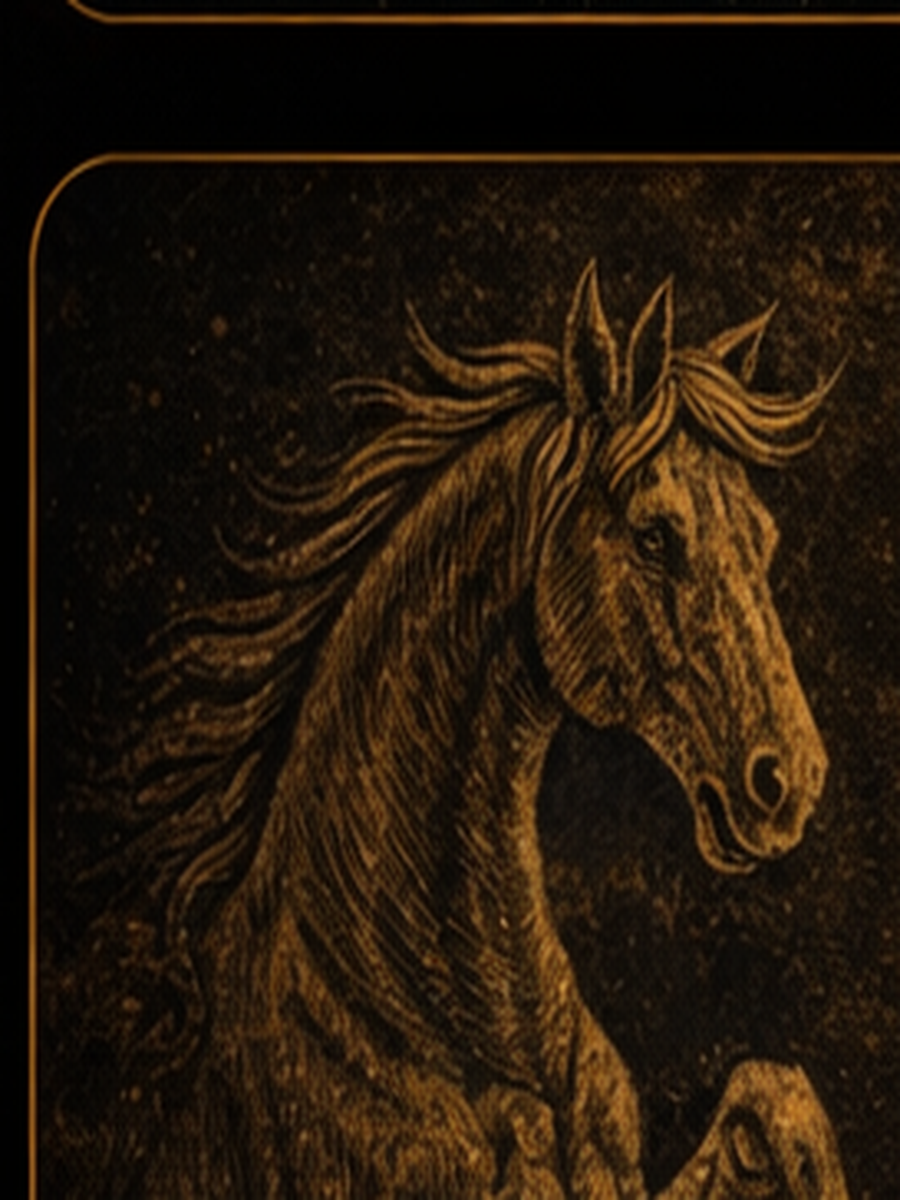
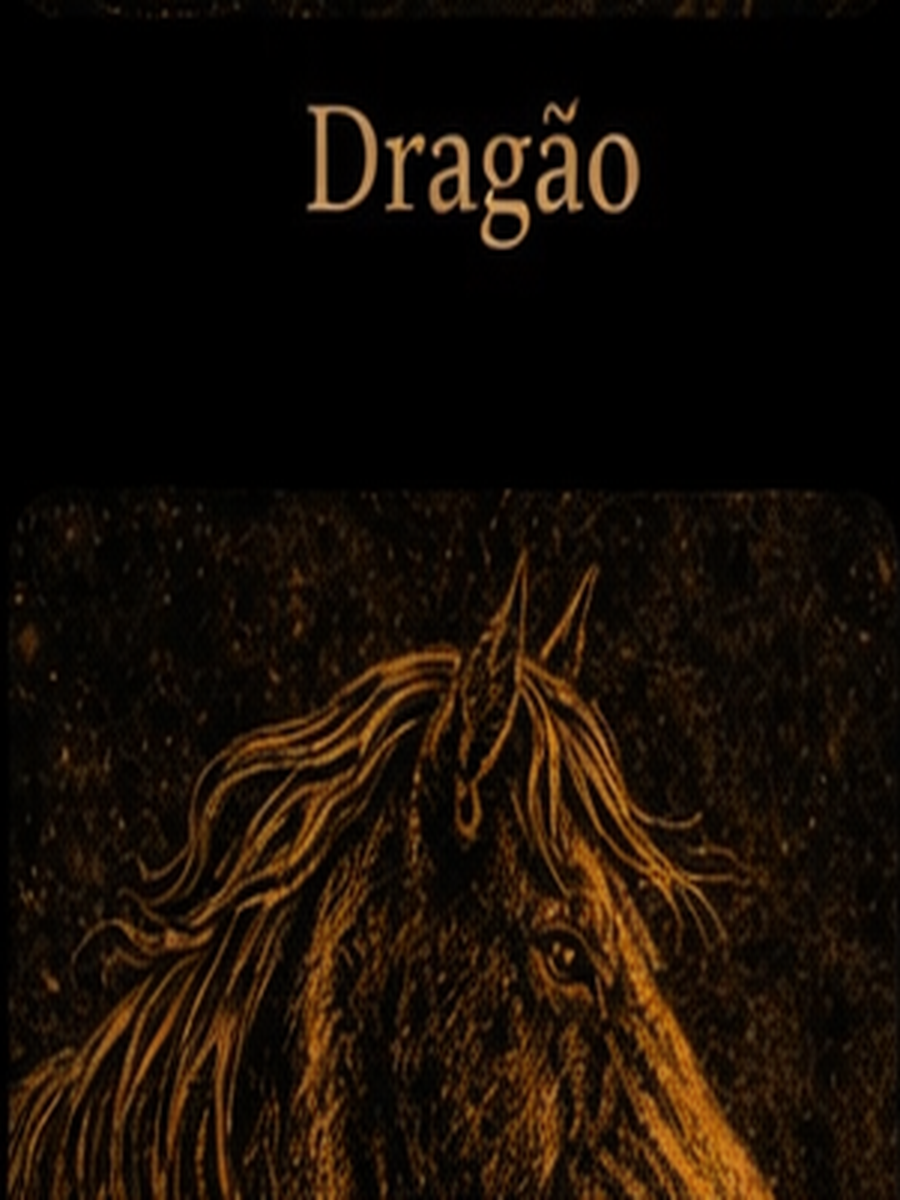
Add files via upload

diff --git a/index.html b/index.html
@@ -1,74 +1,30 @@
-<!doctype html>
-<html lang="pt-BR">
-<head>
-<meta charset="utf-8">
-<meta name="viewport" content="width=device-width,initial-scale=1">
-<title>Treino Semanal Séries</title>
-<meta name="theme-color" content="#050505">
-<link rel="manifest" href="/treino/manifest.json">
-<link rel="icon" href="/treino/icon-192.png">
-<style>
+<!doctype html><html lang="pt-BR"><head><meta charset="utf-8"><meta name="viewport" content="width=device-width,initial-scale=1"><title>Treino Semanal Séries</title><meta name="theme-color" content="#050505"><link rel="manifest" href="/treino/manifest.json"><link rel="icon" href="/treino/icon-192.png"><style>
 :root{--panel:#111;--panel2:#1a1a1a;--text:#f5f5f5;--muted:#b8b8b8;--danger:#d93030;--good:#1db954;--warn:#d4a017;--border:rgba(255,255,255,.10);--shadow:0 14px 28px rgba(0,0,0,.3)}
 *{box-sizing:border-box;-webkit-tap-highlight-color:transparent}
 body{margin:0;font-family:Arial,Helvetica,sans-serif;color:var(--text);background:linear-gradient(180deg,#000 0%,#111 100%)}
-.wrap{max-width:980px;margin:0 auto;padding:16px 14px 90px}
-.hero{position:sticky;top:0;z-index:20;background:rgba(0,0,0,.94);backdrop-filter:blur(10px);border-bottom:1px solid var(--border);margin:0 -14px 14px;padding:16px 14px}
-.hero h1{margin:0;font-size:30px}
-.hero p{margin:6px 0 0;color:var(--muted);font-size:14px;line-height:1.45}
-.proverb-card{position:relative;overflow:hidden;border:1px solid rgba(212,175,55,.24);border-radius:24px;box-shadow:var(--shadow);margin-bottom:14px;min-height:330px;background:#0d0d0d}
-.proverb-bg{position:absolute;inset:0;background-position:right center;background-size:contain;background-repeat:no-repeat;filter:brightness(.98)}
-.proverb-overlay{position:absolute;inset:0;background:linear-gradient(90deg, rgba(0,0,0,.94) 0%, rgba(0,0,0,.88) 38%, rgba(0,0,0,.62) 64%, rgba(0,0,0,.30) 100%),linear-gradient(180deg, rgba(0,0,0,.10), rgba(0,0,0,.20));z-index:1}
-.proverb-content{position:relative;z-index:2;padding:18px;max-width:58%}
-.proverb-top{display:flex;justify-content:space-between;align-items:center;gap:12px}
-.proverb-label{font-size:12px;font-weight:800;letter-spacing:.16em;text-transform:uppercase;color:#f4df95}
-.badge{font-size:11px;font-weight:700;border:1px solid rgba(255,255,255,.14);padding:6px 10px;border-radius:999px;color:#f3f3f3;background:rgba(255,255,255,.05)}
-.quote-mark{font-family:Georgia,"Times New Roman",serif;font-size:64px;line-height:.7;color:#d6ad4d;opacity:.95;margin-top:18px}
-.proverb-text{font-family:Georgia,"Times New Roman",serif;font-size:clamp(28px,5vw,42px);line-height:1.08;font-weight:700;color:#fff6dc}
-.proverb-footer{margin-top:18px;font-size:14px;color:#e6d39c}
-.block,.timer,.mini,.day,.history,.stats{background:var(--panel);border:1px solid var(--border);border-radius:20px;box-shadow:var(--shadow)}
-.block,.timer,.history,.stats{padding:14px;margin-bottom:14px}
-.block strong,.stats strong,.history strong{display:block;color:#fff;margin-bottom:6px}
-.row,.controls,.toolbar{display:flex;gap:10px;flex-wrap:wrap;margin-top:10px}
+.wrap{max-width:980px;margin:0 auto;padding:16px 14px 90px}.hero{position:sticky;top:0;z-index:20;background:rgba(0,0,0,.94);backdrop-filter:blur(10px);border-bottom:1px solid var(--border);margin:0 -14px 14px;padding:16px 14px}
+.hero h1{margin:0;font-size:30px}.hero p{margin:6px 0 0;color:var(--muted);font-size:14px;line-height:1.45}
+.proverb-card{position:relative;overflow:hidden;border:1px solid rgba(212,175,55,.24);border-radius:24px;box-shadow:var(--shadow);margin-bottom:14px;min-height:340px;background:#050505}
+.proverb-bg{position:absolute;inset:0;background-position:92% center;background-size:46%;background-repeat:no-repeat;filter:brightness(.96) saturate(.95);opacity:.95}
+.proverb-overlay{position:absolute;inset:0;background:linear-gradient(90deg, rgba(0,0,0,.95) 0%, rgba(0,0,0,.92) 34%, rgba(0,0,0,.80) 52%, rgba(0,0,0,.44) 74%, rgba(0,0,0,.18) 100%);z-index:1}
+.proverb-content{position:relative;z-index:2;padding:18px;max-width:62%}.proverb-top{display:flex;justify-content:space-between;align-items:center;gap:12px}
+.proverb-label{font-size:12px;font-weight:800;letter-spacing:.16em;text-transform:uppercase;color:#f4df95}.badge{font-size:11px;font-weight:700;border:1px solid rgba(255,255,255,.14);padding:6px 10px;border-radius:999px;color:#f3f3f3;background:rgba(255,255,255,.05)}
+.quote-mark{font-family:Georgia,"Times New Roman",serif;font-size:64px;line-height:.7;color:#d6ad4d;opacity:.95;margin-top:18px}.proverb-text{font-family:Georgia,"Times New Roman",serif;font-size:clamp(28px,5vw,42px);line-height:1.08;font-weight:700;color:#fff6dc}.proverb-footer{margin-top:18px;font-size:14px;color:#e6d39c}
+.block,.timer,.mini,.day,.history,.stats{background:var(--panel);border:1px solid var(--border);border-radius:20px;box-shadow:var(--shadow)}.block,.timer,.history,.stats{padding:14px;margin-bottom:14px}
+.block strong,.stats strong,.history strong{display:block;color:#fff;margin-bottom:6px}.row,.controls,.toolbar{display:flex;gap:10px;flex-wrap:wrap;margin-top:10px}
 button{border:0;border-radius:16px;padding:12px 14px;font-weight:700;font-size:16px;color:white;background:var(--panel2);min-height:48px}
-button.primary{background:#fff;color:#000}
-button.good{background:#1db954;color:#041c0e}
-button.danger{background:#d93030}
-button.warn{background:#d4a017;color:#2e2100}
-button.ghost{background:transparent;border:1px solid var(--border)}
-.grid{display:grid;grid-template-columns:repeat(auto-fit,minmax(150px,1fr));gap:10px;margin-bottom:14px}
-.mini{padding:14px}
-.mini .label{color:var(--muted);font-size:12px}
-.mini .value{font-size:20px;font-weight:800;margin-top:6px}
-.timer .time{font-size:44px;font-weight:900;letter-spacing:1px}
-.timer .note{color:var(--muted);font-size:13px;margin-top:4px}
-.timer-top{display:flex;justify-content:space-between;align-items:flex-start;gap:10px;flex-wrap:wrap}
-.toolbar button{flex:1 1 140px}
-.day{overflow:hidden;margin-bottom:14px}
-.head{padding:16px;border-bottom:1px solid var(--border)}
-.title{margin:0 0 6px;font-size:24px;color:#fff}
-.sub{margin:0;color:var(--muted);font-size:14px}
-.progress{height:10px;background:rgba(255,255,255,.08);border-radius:999px;overflow:hidden;margin-top:12px}
-.progress>div{height:100%;width:0;background:linear-gradient(90deg,#888,#fff);transition:width .25s ease}
-.small{color:var(--muted);font-size:12px;margin-top:8px}
-.list{padding:12px}
-.exercise{display:grid;grid-template-columns:1fr auto;gap:12px;align-items:start;background:rgba(255,255,255,.02);border:1px solid var(--border);border-radius:16px;padding:12px;margin-bottom:10px;transition:all .18s ease}
-.exercise.done{background:rgba(29,185,84,.10);border-color:rgba(29,185,84,.35)}
-.name{font-weight:800;font-size:16px}
-.meta{color:var(--muted);font-size:13px;margin-top:4px}
-.exercise.done .name,.exercise.done .meta{text-decoration:line-through;opacity:.72}
-.resttag{font-size:12px;font-weight:800;color:#fff;background:rgba(255,255,255,.08);border:1px solid rgba(255,255,255,.12);padding:8px 10px;border-radius:999px}
-.series-row{display:flex;gap:8px;flex-wrap:wrap;margin-top:10px}
-.series-box{width:34px;height:34px;border-radius:10px;border:2px solid rgba(255,255,255,.4);display:flex;align-items:center;justify-content:center;background:#fff;color:#000;font-weight:900;font-size:15px;cursor:pointer;user-select:none}
-.series-box.done{background:#1db954;border-color:#1db954;color:#041c0e}
-.series-label{font-size:12px;color:var(--muted);margin-top:6px}
-.history-item{background:rgba(255,255,255,.03);border:1px solid var(--border);border-radius:14px;padding:12px;margin-top:10px}
-.stats-grid{display:grid;grid-template-columns:1fr 1fr;gap:10px}
-.footer{color:var(--muted);text-align:center;font-size:12px;margin-top:12px}
-@media (max-width:480px){.proverb-card{min-height:360px}.proverb-content{max-width:68%}.proverb-text{font-size:26px}.title{font-size:20px}.timer .time{font-size:38px}}
-</style>
-</head>
-<body>
-<div class="wrap">
+button.primary{background:#fff;color:#000}button.good{background:#1db954;color:#041c0e}button.danger{background:#d93030}button.warn{background:#d4a017;color:#2e2100}button.ghost{background:transparent;border:1px solid var(--border)}
+.grid{display:grid;grid-template-columns:repeat(auto-fit,minmax(150px,1fr));gap:10px;margin-bottom:14px}.mini{padding:14px}.mini .label{color:var(--muted);font-size:12px}.mini .value{font-size:20px;font-weight:800;margin-top:6px}
+.timer .time{font-size:44px;font-weight:900;letter-spacing:1px}.timer .note{color:var(--muted);font-size:13px;margin-top:4px}.timer-top{display:flex;justify-content:space-between;align-items:flex-start;gap:10px;flex-wrap:wrap}.toolbar button{flex:1 1 140px}
+.day{overflow:hidden;margin-bottom:14px}.head{padding:16px;border-bottom:1px solid var(--border)}.title{margin:0 0 6px;font-size:24px;color:#fff}.sub{margin:0;color:var(--muted);font-size:14px}
+.progress{height:10px;background:rgba(255,255,255,.08);border-radius:999px;overflow:hidden;margin-top:12px}.progress>div{height:100%;width:0;background:linear-gradient(90deg,#888,#fff);transition:width .25s ease}.small{color:var(--muted);font-size:12px;margin-top:8px}.list{padding:12px}
+.exercise{display:grid;grid-template-columns:1fr auto;gap:12px;align-items:start;background:rgba(255,255,255,.02);border:1px solid var(--border);border-radius:16px;padding:12px;margin-bottom:10px;transition:all .18s ease}.exercise.done{background:rgba(29,185,84,.10);border-color:rgba(29,185,84,.35)}
+.name{font-weight:800;font-size:16px}.meta{color:var(--muted);font-size:13px;margin-top:4px}.exercise.done .name,.exercise.done .meta{text-decoration:line-through;opacity:.72}
+.resttag{font-size:12px;font-weight:800;color:#fff;background:rgba(255,255,255,.08);border:1px solid rgba(255,255,255,.12);padding:8px 10px;border-radius:999px}.series-row{display:flex;gap:8px;flex-wrap:wrap;margin-top:10px}
+.series-box{width:34px;height:34px;border-radius:10px;border:2px solid rgba(255,255,255,.4);display:flex;align-items:center;justify-content:center;background:#fff;color:#000;font-weight:900;font-size:15px;cursor:pointer;user-select:none}.series-box.done{background:#1db954;border-color:#1db954;color:#041c0e}
+.series-label{font-size:12px;color:var(--muted);margin-top:6px}.history-item{background:rgba(255,255,255,.03);border:1px solid var(--border);border-radius:14px;padding:12px;margin-top:10px}.stats-grid{display:grid;grid-template-columns:1fr 1fr;gap:10px}.footer{color:var(--muted);text-align:center;font-size:12px;margin-top:12px}
+@media (max-width:480px){.proverb-card{min-height:360px}.proverb-content{max-width:66%}.proverb-bg{background-size:50%;background-position:96% center}.proverb-text{font-size:26px}.title{font-size:20px}.timer .time{font-size:38px}}
+</style></head><body><div class="wrap">
 <div class="hero"><h1>Treino Semanal Séries</h1><p>Agora com provérbio do dia em destaque e 12 artes individuais dos animais do horóscopo chinês distribuídas pelas 60 frases.</p></div>
 <div class="proverb-card"><div class="proverb-bg" id="proverbBg"></div><div class="proverb-overlay"></div><div class="proverb-content"><div class="proverb-top"><div class="proverb-label">Provérbio do dia</div><div class="badge">Sabedoria oriental</div></div><div class="quote-mark">“</div><div class="proverb-text" id="messageText"></div><div class="proverb-footer" id="animalName"></div></div></div>
 <div class="block"><strong>Instalar como app</strong><div id="installText">Abra no Chrome e aguarde alguns segundos. Se o botão aparecer, toque nele.</div><div class="row"><button id="installBtn" class="good" style="display:none">Instalar app</button><button id="exportBtn" class="ghost">Exportar progresso</button></div></div>
@@ -77,29 +33,15 @@ button.ghost{background:transparent;border:1px solid var(--border)}
 <div class="stats"><strong>Resumo da semana</strong><div class="stats-grid"><div class="mini"><div class="label">Treinos concluídos</div><div class="value" id="doneDays">0/5</div></div><div class="mini"><div class="label">Sequência</div><div class="value" id="streak">0</div></div></div></div>
 <div class="timer"><div class="timer-top"><div><div class="time" id="timer">01:00</div><div class="note">Cronômetro com descanso automático entre séries.</div></div><div class="badge" id="autoMode">Auto descanso: desligado</div></div><div class="controls"><button onclick="setTimer(45)">45s</button><button onclick="setTimer(60)">60s</button><button onclick="setTimer(90)">90s</button><button class="primary" onclick="startTimer()">Iniciar</button><button onclick="pauseTimer()">Pausar</button><button class="danger" onclick="resetTimer()">Zerar</button><button class="ghost" onclick="toggleAutoRest()">Auto</button></div></div>
 <div class="toolbar"><button class="good" onclick="goToday()">Ir para treino de hoje</button><button onclick="saveState(true)">Salvar progresso</button><button class="ghost" onclick="markDayDone()">Concluir treino do dia</button><button class="danger" onclick="clearChecks()">Limpar marcações</button></div>
-<div id="daysContainer"></div>
-<div class="history"><strong>Histórico</strong><div id="historyList">Nenhum treino finalizado ainda.</div></div>
-<div class="footer">App de treino com séries • provérbios do dia • salvo localmente no seu celular.</div>
-</div>
+<div id="daysContainer"></div><div class="history"><strong>Histórico</strong><div id="historyList">Nenhum treino finalizado ainda.</div></div><div class="footer">App de treino com séries • provérbios do dia • salvo localmente no seu celular.</div></div>
 <script>
-const DAYS={"terca": {"title": "Terça — Peito + Tríceps", "sub": "19h • descanso 60–90s", "exs": [["Supino inclinado máquina", 4, "10 repetições", "90s"], ["Supino inclinado halter", 4, "10 repetições", "90s"], ["Crucifixo máquina", 4, "12 repetições", "60s"], ["Tríceps corda pulley", 4, "12 repetições", "60s"], ["Tríceps francês corda", 4, "12 repetições", "60s"], ["Coice corda isolado", 4, "12 repetições", "60s"]]}, "quarta": {"title": "Quarta — Costas + Bíceps", "sub": "19h • descanso 60–90s", "exs": [["Puxada frontal aberta", 4, "10 repetições", "90s"], ["Remada baixa triângulo", 4, "10 repetições", "90s"], ["Puxada em pé corda", 3, "12 repetições", "60s"], ["Crucifixo inverso", 3, "12 repetições", "60s"], ["Scott", 4, "10 repetições", "60s"], ["Rosca unilateral halter", 3, "10 repetições", "60s"], ["Polia baixa corda", 3, "12 repetições", "60s"]]}, "quinta": {"title": "Quinta — Perna + Ombro + Trapézio", "sub": "19h • perna primeiro • descanso 60–90s", "exs": [["Leg press", 4, "12 repetições", "90s"], ["Extensora", 3, "15 repetições", "60s"], ["Flexora", 3, "15 repetições", "60s"], ["Adutor", 3, "15 repetições", "60s"], ["Abdutor", 3, "15 repetições", "60s"], ["Panturrilha", 4, "15–20 repetições", "60s"], ["Desenvolvimento máquina", 4, "10 repetições", "90s"], ["Remada alta máquina", 3, "12 repetições", "60s"], ["Encolhimento trapézio", 4, "12–15 repetições", "60s"]]}, "sabado": {"title": "Sábado — Peito + Tríceps", "sub": "10h • variação leve • descanso 60–90s", "exs": [["Supino máquina reto", 4, "10 repetições", "90s"], ["Supino inclinado halter", 4, "10 repetições", "90s"], ["Crucifixo máquina", 4, "12 repetições", "60s"], ["Tríceps corda", 4, "12 repetições", "60s"], ["Francês corda", 4, "12 repetições", "60s"]]}, "domingo": {"title": "Domingo — Costas + Bíceps", "sub": "10h • descanso 60–90s", "exs": [["Puxada frontal aberta", 4, "10 repetições", "90s"], ["Remada baixa triângulo", 4, "10 repetições", "90s"], ["Crucifixo inverso", 3, "12 repetições", "60s"], ["Scott", 4, "10 repetições", "60s"], ["Rosca halter", 3, "10 repetições", "60s"]]}};
-const MESSAGE_CARDS=[{"text": "A jornada mais longa começa com o primeiro passo.", "animal": {"name": "Boi", "file": "animal_boi.png"}}, {"text": "Não tenha medo de andar devagar; tenha medo de ficar parado.", "animal": {"name": "Galo", "file": "animal_galo.png"}}, {"text": "Quem move uma montanha começa carregando pequenas pedras.", "animal": {"name": "Dragão", "file": "animal_dragao.png"}}, {"text": "A melhor hora para plantar uma árvore foi há vinte anos; a segunda melhor hora é agora.", "animal": {"name": "Rato", "file": "animal_rato.png"}}, {"text": "Água constante encontra caminho mesmo entre pedras.", "animal": {"name": "Serpente", "file": "animal_serpente.png"}}, {"text": "Quem aprende a esperar amadurece em silêncio.", "animal": {"name": "Tigre", "file": "animal_tigre.png"}}, {"text": "Uma palavra branda pode abrir portas fechadas.", "animal": {"name": "Macaco", "file": "animal_macaco.png"}}, {"text": "A paciência é amarga, mas seus frutos são doces.", "animal": {"name": "Porco", "file": "animal_porco.png"}}, {"text": "Quando o vento muda, alguns levantam muros; outros constroem moinhos.", "animal": {"name": "Cavalo", "file": "animal_cavalo.png"}}, {"text": "Um rio profundo corre sem alarde.", "animal": {"name": "Coelho", "file": "animal_coelho.png"}}, {"text": "Quem faz com constância vai além de quem começa com pressa.", "animal": {"name": "Cão", "file": "animal_cao.png"}}, {"text": "O bambu que se dobra é mais forte do que o carvalho que resiste a tudo.", "animal": {"name": "Cabra", "file": "animal_cabra.png"}}, {"text": "Antes de corrigir o mundo, arrume o próprio passo.", "animal": {"name": "Galo", "file": "animal_galo.png"}}, {"text": "O sábio observa mais do que fala.", "animal": {"name": "Cavalo", "file": "animal_cavalo.png"}}, {"text": "Até a água turva se acalma quando deixada em repouso.", "animal": {"name": "Tigre", "file": "animal_tigre.png"}}, {"text": "Grandes resultados nascem de pequenos gestos repetidos.", "animal": {"name": "Porco", "file": "animal_porco.png"}}, {"text": "Quem domina a si mesmo já venceu metade da batalha.", "animal": {"name": "Rato", "file": "animal_rato.png"}}, {"text": "O tempo esclarece o que a pressa confunde.", "animal": {"name": "Serpente", "file": "animal_serpente.png"}}, {"text": "Nem todo silêncio é vazio; às vezes, é compreensão.", "animal": {"name": "Boi", "file": "animal_boi.png"}}, {"text": "O caminho fica mais leve para quem aprende a levar só o necessário.", "animal": {"name": "Coelho", "file": "animal_coelho.png"}}, {"text": "Uma faísca cuidada pode acender grande chama.", "animal": {"name": "Macaco", "file": "animal_macaco.png"}}, {"text": "Quem pergunta por um minuto aprende; quem não pergunta permanece perdido.", "animal": {"name": "Dragão", "file": "animal_dragao.png"}}, {"text": "Mesmo a noite mais longa cede lugar ao amanhecer.", "animal": {"name": "Cabra", "file": "animal_cabra.png"}}, {"text": "O fruto amadurece no seu tempo, não no da ansiedade.", "animal": {"name": "Cão", "file": "animal_cao.png"}}, {"text": "A firmeza tranquila vale mais que a força impaciente.", "animal": {"name": "Dragão", "file": "animal_dragao.png"}}, {"text": "Quem cuida da raiz não teme a estação.", "animal": {"name": "Rato", "file": "animal_rato.png"}}, {"text": "Uma casa em paz vale mais do que um palácio inquieto.", "animal": {"name": "Cavalo", "file": "animal_cavalo.png"}}, {"text": "Não é a altura da montanha que vence o homem, mas a persistência do passo.", "animal": {"name": "Cão", "file": "animal_cao.png"}}, {"text": "Quem cultiva serenidade enxerga mais longe.", "animal": {"name": "Serpente", "file": "animal_serpente.png"}}, {"text": "O lago reflete o céu quando suas águas estão calmas.", "animal": {"name": "Porco", "file": "animal_porco.png"}}, {"text": "Quando a mente se aquieta, a direção aparece.", "animal": {"name": "Boi", "file": "animal_boi.png"}}, {"text": "O hábito de recomeçar é um tipo de sabedoria.", "animal": {"name": "Coelho", "file": "animal_coelho.png"}}, {"text": "A pressa tropeça onde a atenção pisaria firme.", "animal": {"name": "Macaco", "file": "animal_macaco.png"}}, {"text": "Quem guarda rancor carrega peso desnecessário.", "animal": {"name": "Galo", "file": "animal_galo.png"}}, {"text": "Até o menor avanço é maior que a imobilidade.", "animal": {"name": "Cabra", "file": "animal_cabra.png"}}, {"text": "O homem prudente mede o passo antes de correr.", "animal": {"name": "Tigre", "file": "animal_tigre.png"}}, {"text": "Uma árvore forte cresce devagar.", "animal": {"name": "Galo", "file": "animal_galo.png"}}, {"text": "Quem espalha bondade nunca volta de mãos vazias.", "animal": {"name": "Dragão", "file": "animal_dragao.png"}}, {"text": "O erro reconhecido já começou a se transformar em acerto.", "animal": {"name": "Boi", "file": "animal_boi.png"}}, {"text": "Quem escuta com atenção aprende duas vezes.", "animal": {"name": "Cavalo", "file": "animal_cavalo.png"}}, {"text": "A estrada ensina mais a quem caminha do que a quem apenas observa.", "animal": {"name": "Porco", "file": "animal_porco.png"}}, {"text": "Uma tigela cheia demais já não recebe mais nada.", "animal": {"name": "Cabra", "file": "animal_cabra.png"}}, {"text": "O dia de hoje vale mais do que a promessa de amanhã.", "animal": {"name": "Coelho", "file": "animal_coelho.png"}}, {"text": "Quem mantém o coração em ordem organiza melhor o caminho.", "animal": {"name": "Tigre", "file": "animal_tigre.png"}}, {"text": "A calma é uma forma silenciosa de poder.", "animal": {"name": "Cão", "file": "animal_cao.png"}}, {"text": "Não se apressa a primavera puxando as flores.", "animal": {"name": "Macaco", "file": "animal_macaco.png"}}, {"text": "Quem aceita aprender nunca envelhece por dentro.", "animal": {"name": "Serpente", "file": "animal_serpente.png"}}, {"text": "Uma lanterna pequena ainda é suficiente para atravessar a noite.", "animal": {"name": "Rato", "file": "animal_rato.png"}}, {"text": "Para endireitar o galho, cuide primeiro da raiz.", "animal": {"name": "Dragão", "file": "animal_dragao.png"}}, {"text": "Quem semeia constância colhe confiança.", "animal": {"name": "Cavalo", "file": "animal_cavalo.png"}}, {"text": "A verdade não precisa correr; ela chega.", "animal": {"name": "Cabra", "file": "animal_cabra.png"}}, {"text": "A pedra é vencida menos pela força do golpe e mais pela repetição.", "animal": {"name": "Macaco", "file": "animal_macaco.png"}}, {"text": "Nem toda demora é perda; às vezes, é preparo.", "animal": {"name": "Serpente", "file": "animal_serpente.png"}}, {"text": "Quem faz o simples com atenção constrói o extraordinário.", "animal": {"name": "Tigre", "file": "animal_tigre.png"}}, {"text": "A mente apressada vê pouco; o olhar sereno enxerga fundo.", "animal": {"name": "Porco", "file": "animal_porco.png"}}, {"text": "Se o coração estiver em paz, o caminho parecerá menos áspero.", "animal": {"name": "Coelho", "file": "animal_coelho.png"}}, {"text": "O excesso de ruído afasta a clareza.", "animal": {"name": "Boi", "file": "animal_boi.png"}}, {"text": "Uma ponte se sustenta porque cada parte cumpre o seu papel.", "animal": {"name": "Cão", "file": "animal_cao.png"}}, {"text": "Quem honra o presente prepara melhor o futuro.", "animal": {"name": "Rato", "file": "animal_rato.png"}}, {"text": "O homem que cuida do que pensa melhora o que vive.", "animal": {"name": "Galo", "file": "animal_galo.png"}}];
-const REPO='/treino/';
-const daysContainer=document.getElementById('daysContainer');
+const DAYS={"terca": {"title": "Terça — Peito + Tríceps", "sub": "19h • descanso 60–90s", "exs": [["Supino inclinado máquina", 4, "10 repetições", "90s"], ["Supino inclinado halter", 4, "10 repetições", "90s"], ["Crucifixo máquina", 4, "12 repetições", "60s"], ["Tríceps corda pulley", 4, "12 repetições", "60s"], ["Tríceps francês corda", 4, "12 repetições", "60s"], ["Coice corda isolado", 4, "12 repetições", "60s"]]}, "quarta": {"title": "Quarta — Costas + Bíceps", "sub": "19h • descanso 60–90s", "exs": [["Puxada frontal aberta", 4, "10 repetições", "90s"], ["Remada baixa triângulo", 4, "10 repetições", "90s"], ["Puxada em pé corda", 3, "12 repetições", "60s"], ["Crucifixo inverso", 3, "12 repetições", "60s"], ["Scott", 4, "10 repetições", "60s"], ["Rosca unilateral halter", 3, "10 repetições", "60s"], ["Polia baixa corda", 3, "12 repetições", "60s"]]}, "quinta": {"title": "Quinta — Perna + Ombro + Trapézio", "sub": "19h • perna primeiro • descanso 60–90s", "exs": [["Leg press", 4, "12 repetições", "90s"], ["Extensora", 3, "15 repetições", "60s"], ["Flexora", 3, "15 repetições", "60s"], ["Adutor", 3, "15 repetições", "60s"], ["Abdutor", 3, "15 repetições", "60s"], ["Panturrilha", 4, "15–20 repetições", "60s"], ["Desenvolvimento máquina", 4, "10 repetições", "90s"], ["Remada alta máquina", 3, "12 repetições", "60s"], ["Encolhimento trapézio", 4, "12–15 repetições", "60s"]]}, "sabado": {"title": "Sábado — Peito + Tríceps", "sub": "10h • variação leve • descanso 60–90s", "exs": [["Supino máquina reto", 4, "10 repetições", "90s"], ["Supino inclinado halter", 4, "10 repetições", "90s"], ["Crucifixo máquina", 4, "12 repetições", "60s"], ["Tríceps corda", 4, "12 repetições", "60s"], ["Francês corda", 4, "12 repetições", "60s"]]}, "domingo": {"title": "Domingo — Costas + Bíceps", "sub": "10h • descanso 60–90s", "exs": [["Puxada frontal aberta", 4, "10 repetições", "90s"], ["Remada baixa triângulo", 4, "10 repetições", "90s"], ["Crucifixo inverso", 3, "12 repetições", "60s"], ["Scott", 4, "10 repetições", "60s"], ["Rosca halter", 3, "10 repetições", "60s"]]}}; const MESSAGE_CARDS=[{"text": "A jornada mais longa começa com o primeiro passo.", "animal": {"name": "Boi", "file": "animal_boi.png"}}, {"text": "Não tenha medo de andar devagar; tenha medo de ficar parado.", "animal": {"name": "Galo", "file": "animal_galo.png"}}, {"text": "Quem move uma montanha começa carregando pequenas pedras.", "animal": {"name": "Dragão", "file": "animal_dragao.png"}}, {"text": "A melhor hora para plantar uma árvore foi há vinte anos; a segunda melhor hora é agora.", "animal": {"name": "Rato", "file": "animal_rato.png"}}, {"text": "Água constante encontra caminho mesmo entre pedras.", "animal": {"name": "Serpente", "file": "animal_serpente.png"}}, {"text": "Quem aprende a esperar amadurece em silêncio.", "animal": {"name": "Tigre", "file": "animal_tigre.png"}}, {"text": "Uma palavra branda pode abrir portas fechadas.", "animal": {"name": "Macaco", "file": "animal_macaco.png"}}, {"text": "A paciência é amarga, mas seus frutos são doces.", "animal": {"name": "Porco", "file": "animal_porco.png"}}, {"text": "Quando o vento muda, alguns levantam muros; outros constroem moinhos.", "animal": {"name": "Cavalo", "file": "animal_cavalo.png"}}, {"text": "Um rio profundo corre sem alarde.", "animal": {"name": "Coelho", "file": "animal_coelho.png"}}, {"text": "Quem faz com constância vai além de quem começa com pressa.", "animal": {"name": "Cão", "file": "animal_cao.png"}}, {"text": "O bambu que se dobra é mais forte do que o carvalho que resiste a tudo.", "animal": {"name": "Cabra", "file": "animal_cabra.png"}}, {"text": "Antes de corrigir o mundo, arrume o próprio passo.", "animal": {"name": "Galo", "file": "animal_galo.png"}}, {"text": "O sábio observa mais do que fala.", "animal": {"name": "Cavalo", "file": "animal_cavalo.png"}}, {"text": "Até a água turva se acalma quando deixada em repouso.", "animal": {"name": "Tigre", "file": "animal_tigre.png"}}, {"text": "Grandes resultados nascem de pequenos gestos repetidos.", "animal": {"name": "Porco", "file": "animal_porco.png"}}, {"text": "Quem domina a si mesmo já venceu metade da batalha.", "animal": {"name": "Rato", "file": "animal_rato.png"}}, {"text": "O tempo esclarece o que a pressa confunde.", "animal": {"name": "Serpente", "file": "animal_serpente.png"}}, {"text": "Nem todo silêncio é vazio; às vezes, é compreensão.", "animal": {"name": "Boi", "file": "animal_boi.png"}}, {"text": "O caminho fica mais leve para quem aprende a levar só o necessário.", "animal": {"name": "Coelho", "file": "animal_coelho.png"}}, {"text": "Uma faísca cuidada pode acender grande chama.", "animal": {"name": "Macaco", "file": "animal_macaco.png"}}, {"text": "Quem pergunta por um minuto aprende; quem não pergunta permanece perdido.", "animal": {"name": "Dragão", "file": "animal_dragao.png"}}, {"text": "Mesmo a noite mais longa cede lugar ao amanhecer.", "animal": {"name": "Cabra", "file": "animal_cabra.png"}}, {"text": "O fruto amadurece no seu tempo, não no da ansiedade.", "animal": {"name": "Cão", "file": "animal_cao.png"}}, {"text": "A firmeza tranquila vale mais que a força impaciente.", "animal": {"name": "Dragão", "file": "animal_dragao.png"}}, {"text": "Quem cuida da raiz não teme a estação.", "animal": {"name": "Rato", "file": "animal_rato.png"}}, {"text": "Uma casa em paz vale mais do que um palácio inquieto.", "animal": {"name": "Cavalo", "file": "animal_cavalo.png"}}, {"text": "Não é a altura da montanha que vence o homem, mas a persistência do passo.", "animal": {"name": "Cão", "file": "animal_cao.png"}}, {"text": "Quem cultiva serenidade enxerga mais longe.", "animal": {"name": "Serpente", "file": "animal_serpente.png"}}, {"text": "O lago reflete o céu quando suas águas estão calmas.", "animal": {"name": "Porco", "file": "animal_porco.png"}}, {"text": "Quando a mente se aquieta, a direção aparece.", "animal": {"name": "Boi", "file": "animal_boi.png"}}, {"text": "O hábito de recomeçar é um tipo de sabedoria.", "animal": {"name": "Coelho", "file": "animal_coelho.png"}}, {"text": "A pressa tropeça onde a atenção pisaria firme.", "animal": {"name": "Macaco", "file": "animal_macaco.png"}}, {"text": "Quem guarda rancor carrega peso desnecessário.", "animal": {"name": "Galo", "file": "animal_galo.png"}}, {"text": "Até o menor avanço é maior que a imobilidade.", "animal": {"name": "Cabra", "file": "animal_cabra.png"}}, {"text": "O homem prudente mede o passo antes de correr.", "animal": {"name": "Tigre", "file": "animal_tigre.png"}}, {"text": "Uma árvore forte cresce devagar.", "animal": {"name": "Galo", "file": "animal_galo.png"}}, {"text": "Quem espalha bondade nunca volta de mãos vazias.", "animal": {"name": "Dragão", "file": "animal_dragao.png"}}, {"text": "O erro reconhecido já começou a se transformar em acerto.", "animal": {"name": "Boi", "file": "animal_boi.png"}}, {"text": "Quem escuta com atenção aprende duas vezes.", "animal": {"name": "Cavalo", "file": "animal_cavalo.png"}}, {"text": "A estrada ensina mais a quem caminha do que a quem apenas observa.", "animal": {"name": "Porco", "file": "animal_porco.png"}}, {"text": "Uma tigela cheia demais já não recebe mais nada.", "animal": {"name": "Cabra", "file": "animal_cabra.png"}}, {"text": "O dia de hoje vale mais do que a promessa de amanhã.", "animal": {"name": "Coelho", "file": "animal_coelho.png"}}, {"text": "Quem mantém o coração em ordem organiza melhor o caminho.", "animal": {"name": "Tigre", "file": "animal_tigre.png"}}, {"text": "A calma é uma forma silenciosa de poder.", "animal": {"name": "Cão", "file": "animal_cao.png"}}, {"text": "Não se apressa a primavera puxando as flores.", "animal": {"name": "Macaco", "file": "animal_macaco.png"}}, {"text": "Quem aceita aprender nunca envelhece por dentro.", "animal": {"name": "Serpente", "file": "animal_serpente.png"}}, {"text": "Uma lanterna pequena ainda é suficiente para atravessar a noite.", "animal": {"name": "Rato", "file": "animal_rato.png"}}, {"text": "Para endireitar o galho, cuide primeiro da raiz.", "animal": {"name": "Dragão", "file": "animal_dragao.png"}}, {"text": "Quem semeia constância colhe confiança.", "animal": {"name": "Cavalo", "file": "animal_cavalo.png"}}, {"text": "A verdade não precisa correr; ela chega.", "animal": {"name": "Cabra", "file": "animal_cabra.png"}}, {"text": "A pedra é vencida menos pela força do golpe e mais pela repetição.", "animal": {"name": "Macaco", "file": "animal_macaco.png"}}, {"text": "Nem toda demora é perda; às vezes, é preparo.", "animal": {"name": "Serpente", "file": "animal_serpente.png"}}, {"text": "Quem faz o simples com atenção constrói o extraordinário.", "animal": {"name": "Tigre", "file": "animal_tigre.png"}}, {"text": "A mente apressada vê pouco; o olhar sereno enxerga fundo.", "animal": {"name": "Porco", "file": "animal_porco.png"}}, {"text": "Se o coração estiver em paz, o caminho parecerá menos áspero.", "animal": {"name": "Coelho", "file": "animal_coelho.png"}}, {"text": "O excesso de ruído afasta a clareza.", "animal": {"name": "Boi", "file": "animal_boi.png"}}, {"text": "Uma ponte se sustenta porque cada parte cumpre o seu papel.", "animal": {"name": "Cão", "file": "animal_cao.png"}}, {"text": "Quem honra o presente prepara melhor o futuro.", "animal": {"name": "Rato", "file": "animal_rato.png"}}, {"text": "O homem que cuida do que pensa melhora o que vive.", "animal": {"name": "Galo", "file": "animal_galo.png"}}]; const REPO='/treino/'; const daysContainer=document.getElementById('daysContainer');
 function dayIndex(){const start=new Date('2026-01-01'); const now=new Date(); return Math.abs(Math.floor((now-start)/(1000*60*60*24)));}
 const todayCard=MESSAGE_CARDS[dayIndex()%MESSAGE_CARDS.length];
 document.getElementById('messageText').textContent=todayCard.text;
 document.getElementById('animalName').textContent='Animal do dia: '+todayCard.animal.name;
 document.getElementById('proverbBg').style.backgroundImage='url("'+REPO+todayCard.animal.file+'")';
-for(const [gid,info] of Object.entries(DAYS)){
-  let html=`<section class="day" id="${gid}"><div class="head"><h2 class="title">${info.title}</h2><p class="sub">${info.sub}</p><div class="progress"><div id="bar-${gid}"></div></div><div class="small" id="txt-${gid}">0 de ${info.exs.length} exercícios concluídos</div></div><div class="list">`;
-  info.exs.forEach((ex,i)=>{
-    const id=`${gid}-${i}`; let s='';
-    for(let n=1;n<=ex[1];n++){s+=`<div class="series-box" data-series-id="${id}-${n}" data-exercise-id="${id}" data-rest="${ex[3]}">${n}</div>`;}
-    html+=`<div class="exercise" data-id="${id}"><div><div class="name">${ex[0]}</div><div class="meta">${ex[1]} séries • ${ex[2]}</div><div class="series-row">${s}</div><div class="series-label">Marque uma caixa a cada série concluída</div></div><div class="resttag">${ex[3]}</div></div>`;
-  });
-  html+=`</div></section>`; daysContainer.insertAdjacentHTML('beforeend',html);
-}
+for(const [gid,info] of Object.entries(DAYS)){let html=`<section class="day" id="${gid}"><div class="head"><h2 class="title">${info.title}</h2><p class="sub">${info.sub}</p><div class="progress"><div id="bar-${gid}"></div></div><div class="small" id="txt-${gid}">0 de ${info.exs.length} exercícios concluídos</div></div><div class="list">`; info.exs.forEach((ex,i)=>{const id=`${gid}-${i}`; let s=''; for(let n=1;n<=ex[1];n++){s+=`<div class="series-box" data-series-id="${id}-${n}" data-exercise-id="${id}" data-rest="${ex[3]}">${n}</div>`;} html+=`<div class="exercise" data-id="${id}"><div><div class="name">${ex[0]}</div><div class="meta">${ex[1]} séries • ${ex[2]}</div><div class="series-row">${s}</div><div class="series-label">Marque uma caixa a cada série concluída</div></div><div class="resttag">${ex[3]}</div></div>`}); html+=`</div></section>`; daysContainer.insertAdjacentHTML('beforeend',html);}
 const installBtn=document.getElementById('installBtn'), installText=document.getElementById('installText'), exportBtn=document.getElementById('exportBtn'), wakeBtn=document.getElementById('wakeBtn'), notifyBtn=document.getElementById('notifyBtn'), seriesBoxes=[...document.querySelectorAll('.series-box')];
 let totalSeconds=60,remaining=60,interval=null,deferredPrompt=null,autoRest=false,wakeLock=null,wakeEnabled=false,notifyEnabled=true;
 if('serviceWorker' in navigator){window.addEventListener('load',()=>navigator.serviceWorker.register(REPO+'sw.js',{scope:REPO}))}
@@ -139,6 +81,4 @@ function renderStreak(){const history=JSON.parse(localStorage.getItem(historyKey
 exportBtn.addEventListener('click',()=>{const data={series:JSON.parse(localStorage.getItem(seriesKey())||'{}'),history:JSON.parse(localStorage.getItem(historyKey())||'[]')}; const blob=new Blob([JSON.stringify(data,null,2)],{type:'application/json'}), a=document.createElement('a'); a.href=URL.createObjectURL(blob); a.download='treino-series-progresso.json'; a.click()})
 seriesBoxes.forEach(box=>box.addEventListener('click',()=>{box.classList.toggle('done'); updateExerciseVisual(box.dataset.exerciseId); saveState(false); if(autoRest){const secs=parseInt(box.dataset.rest); if(!Number.isNaN(secs)){setTimer(secs); startTimer()}}}))
 loadState(); loadAutoRest(); loadNotify(); renderHistory(); renderStreak(); updateProgress(); renderTimer(); if(localStorage.getItem('treinoSeriesWake')==='true') requestWakeLock();
-</script>
-</body>
-</html>
+</script></body></html>

diff --git a/sw.js b/sw.js
@@ -1,1 +1,1 @@
-const CACHE='treino-animais-sem-corte-v1';const ASSETS=["/treino/", "/treino/index.html", "/treino/manifest.json", "/treino/icon-192.png", "/treino/icon-512.png", "/treino/animal_dragao.png", "/treino/animal_tigre.png", "/treino/animal_coelho.png", "/treino/animal_cavalo.png", "/treino/animal_cabra.png", "/treino/animal_serpente.png", "/treino/animal_macaco.png", "/treino/animal_galo.png", "/treino/animal_boi.png", "/treino/animal_porco.png", "/treino/animal_rato.png", "/treino/animal_cao.png"];self.addEventListener('install',e=>{e.waitUntil(caches.open(CACHE).then(c=>c.addAll(ASSETS)));self.skipWaiting();});self.addEventListener('activate',e=>{e.waitUntil(caches.keys().then(keys=>Promise.all(keys.filter(k=>k!==CACHE).map(k=>caches.delete(k)))));self.clients.claim();});self.addEventListener('fetch',e=>{if(e.request.method!=='GET')return;e.respondWith(caches.match(e.request).then(r=>r||fetch(e.request).then(n=>{const cp=n.clone();caches.open(CACHE).then(c=>c.put(e.request,cp));return n;}).catch(()=>caches.match('/treino/index.html'))));});
+const CACHE='treino-12-individuais-v1';const ASSETS=["/treino/", "/treino/index.html", "/treino/manifest.json", "/treino/icon-192.png", "/treino/icon-512.png", "/treino/animal_dragao.png", "/treino/animal_tigre.png", "/treino/animal_coelho.png", "/treino/animal_cavalo.png", "/treino/animal_cabra.png", "/treino/animal_serpente.png", "/treino/animal_macaco.png", "/treino/animal_galo.png", "/treino/animal_boi.png", "/treino/animal_porco.png", "/treino/animal_rato.png", "/treino/animal_cao.png"];self.addEventListener('install',e=>{e.waitUntil(caches.open(CACHE).then(c=>c.addAll(ASSETS)));self.skipWaiting();});self.addEventListener('activate',e=>{e.waitUntil(caches.keys().then(keys=>Promise.all(keys.filter(k=>k!==CACHE).map(k=>caches.delete(k)))));self.clients.claim();});self.addEventListener('fetch',e=>{if(e.request.method!=='GET')return;e.respondWith(caches.match(e.request).then(r=>r||fetch(e.request).then(n=>{const cp=n.clone();caches.open(CACHE).then(c=>c.put(e.request,cp));return n;}).catch(()=>caches.match('/treino/index.html'))));});
